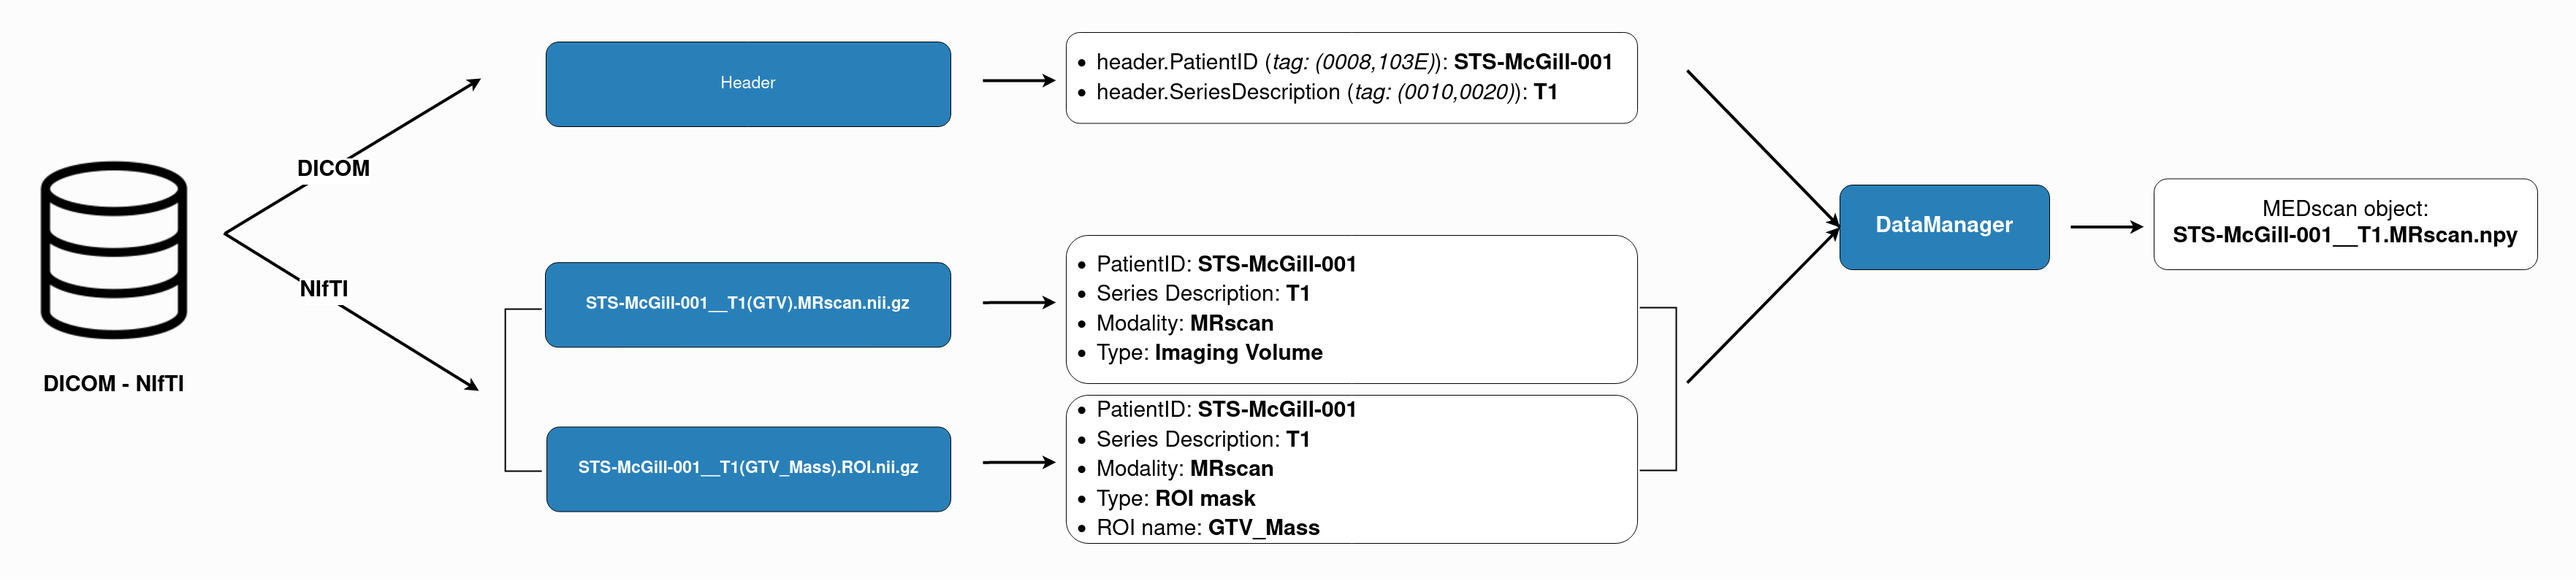
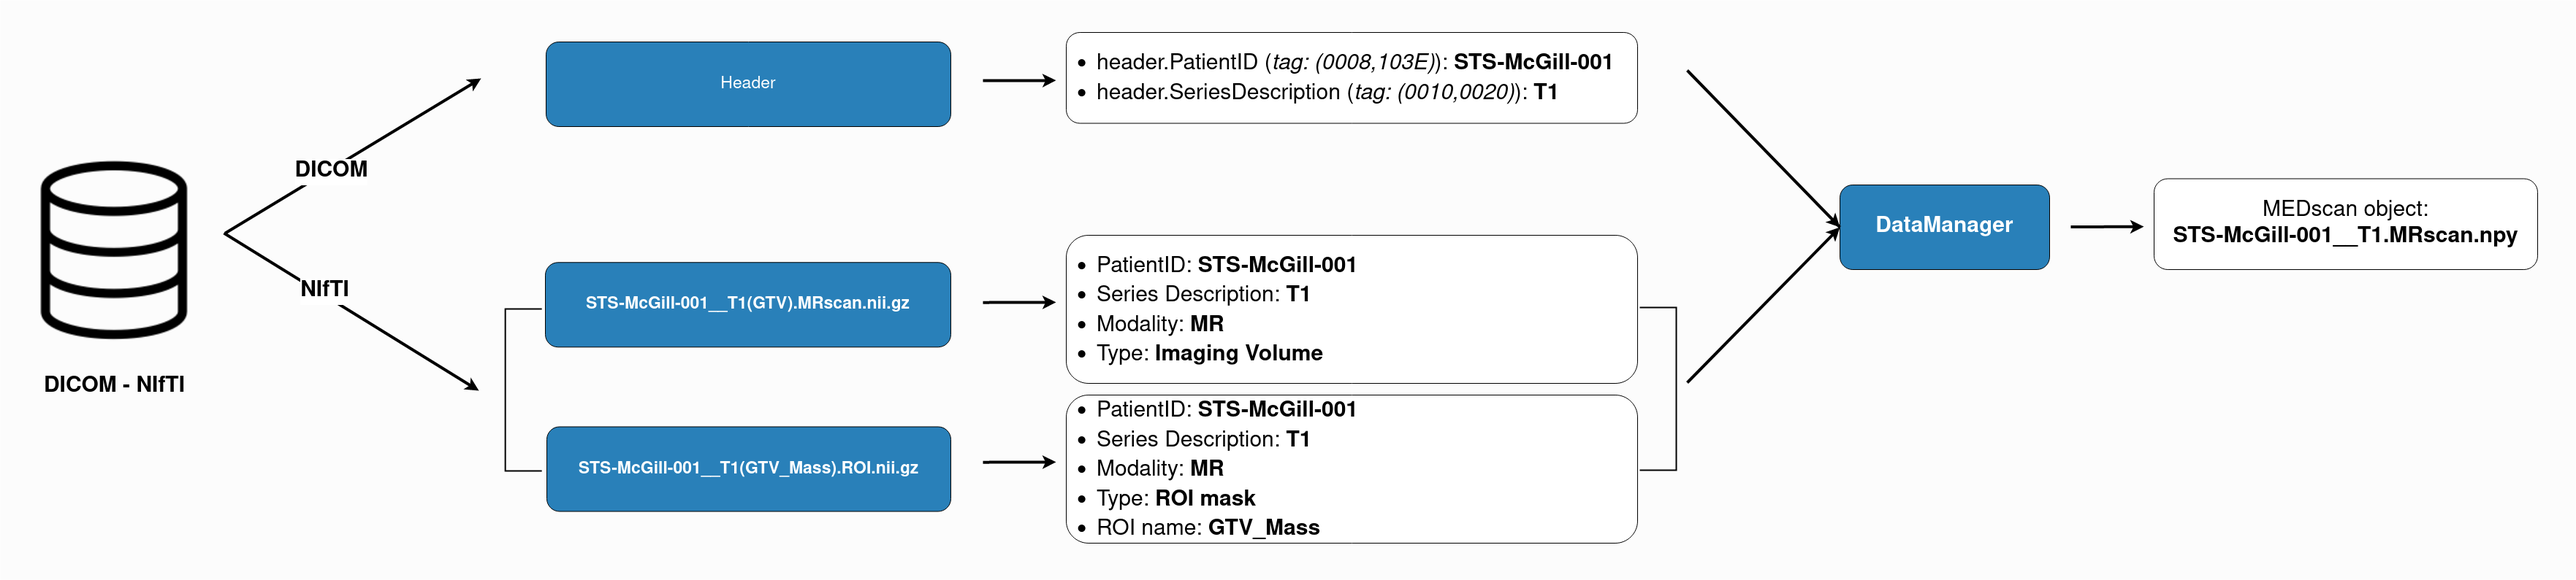
Updated modality in figure and added Martin suggestions

diff --git a/docs/input_data.rst b/docs/input_data.rst
@@ -3,7 +3,7 @@ Input Data
 
 ``MEDimage`` package accepts two formats of input data: `NIfTI <https://brainder.org/2012/09/23/the-nifti-file-format/>`__ 
 and `DICOM <https://fr.wikipedia.org/wiki/Digital_imaging_and_communications_in_medicine>`__. Each format has its own conventions
-that need to be respected. The following sections describe the norms and the conventions for each format and we recommend you process your 
+that need to be followed. The following sections describe the norms and the conventions for each format and we recommend you process your 
 dataset in a way that respects them.
 
 DICOM
@@ -13,22 +13,22 @@ Every DICOM file contains a header and a body. The header contains the metadata 
 The header contains a lot of information that helps identify scans from each other, but the most important are the following:
 
 - **Patient ID**: Primary identifier for the Patient, referenced in the ``PatientID`` field of the header. This field should not contain any
-  underscore and we recommend that it respects the following format: ``'study-institution-numericID'``. For example, ``'STS-McGill-001'``.
-- **Series description**: A description of the series, usually describes the type of the modality used. Referenced in the ``SeriesDescription`` 
-  field of the header. This field should be in alphanumeric characters only. For example, ``'T1'``.
-
-Besides the file names, these two fields are used in in the :doc:`../csv_file` of the dataset, in the ``PatientID`` and ``ImagingScanName`` columns that
-helps determine scans that will be used in the radiomics analysis.
+  underscore and for compatibility with other `MEDomics packages <https://github.com/medomics>`__, we recommend that it respects the following 
+  format: ``'study-institution-numericID'``. For example, ``'STS-McGill-001'``. It is also used in the :doc:`../csv_file` of the dataset under 
+  the column ``PatientID``.
+- **Series description**: Referenced in the ``SeriesDescription`` field of the DICOM header. A description of the series, usually describes the 
+  type of the modality used or gives it a name to help differentiate scans with the same modality (Imaging scan name). It should be in alphanumeric characters 
+  only. For example, ``'T1'`` or ``'T2'`` for ``'MRI'`` scans. It is also referred to in the :doc:`../csv_file` of the dataset as ``ImagingScanName``.
 
 NIfTI
 -----
 
-The NIfTI format is a very simple format that only contains the image itself. Unlike DICOM, the NIfTI format does contain any
+The NIfTI format is a simple format that only contains the image itself. Unlike DICOM, the NIfTI format does contain any
 information about the regions of interest (ROI) so it needs to be provided in other separate files. In order for ``MEDimage`` to read a NIfTI scan
 files, they need to be put in the same folder with the following names:
 
-- ``'PatientID__SeriesDescription(tumorAuto).Modality.nii.gz'``: The image itself. For example: ``'STS-McGill-001__T1(tumorAuto).MRscan.nii.gz'``.
-- ``'PatientID__SeriesDescription(ROIname).ROI.nii.gz'``: The ROI of the image. This file should contain a binary mask of the ROI. 
+- ``'PatientID__SeriesDescription(ROILabel).Modality.nii.gz'``: The image itself. For example: ``'STS-McGill-001__T1(GTV).MRscan.nii.gz'``.
+- ``'PatientID__SeriesDescription(ROIname).ROI.nii.gz'``: The ROI or the mask of the image. This file should contain a binary mask of the ROI. 
   For example: ``'STS-McGill-001__T1(GTV_Mass).ROI.nii.gz'``.
 
 The following figure sums up the ``MEDimage`` logic in reading data for both formats:
@@ -36,6 +36,49 @@ The following figure sums up the ``MEDimage`` logic in reading data for both for
 .. image:: /figures/InputDataSummary.png
     :width: 1000
     :align: center
+
+If these conventions are followed, the ``DataManager`` class will be able to read the data and create the ``MEDscan`` objects that will be used
+in the radiomics analysis. Furthermore, we suggest you organize your dataset folder as follows:
+
+::
+
+    dataset_folder
+    ├── Patient ID 1      
+    │   ├── ImagingScanName 1
+    │   │   ├── DICOM files
+    │   │   └── ...
+    │   └── ImagingScanName 2
+    │       ├── DICOM files
+    │       └── ...
+    ├── Patient ID 2      
+    │   ├── ImagingScanName 1
+    │   │   ├── DICOM files
+    │   │   └── ...
+    │   └── ImagingScanName 2
+    │       ├── DICOM files
+    │       └── ...
+    └── ...
+
+For example:
+
+::
+
+    dataset_folder
+    ├── STS-McGill-001      
+    │   ├── T1
+    │   │   ├── *.dcm
+    │   │   └── ...
+    │   └── PET
+    │       ├── *.dcm
+    │       └── ...
+    ├── STS-McGill-002      
+    │   ├── T2FS
+    │   │   ├── *.dcm
+    │   │   └── ...
+    │   └── CT
+    │       ├── *.dcm
+    │       └── ...
+    └── ...
 
 .. note::
     For instance, ``MEDimage`` assumes that all the NIfTI files are ``Axial`` and ``HFS`` so make sure your scans have this same orientation
